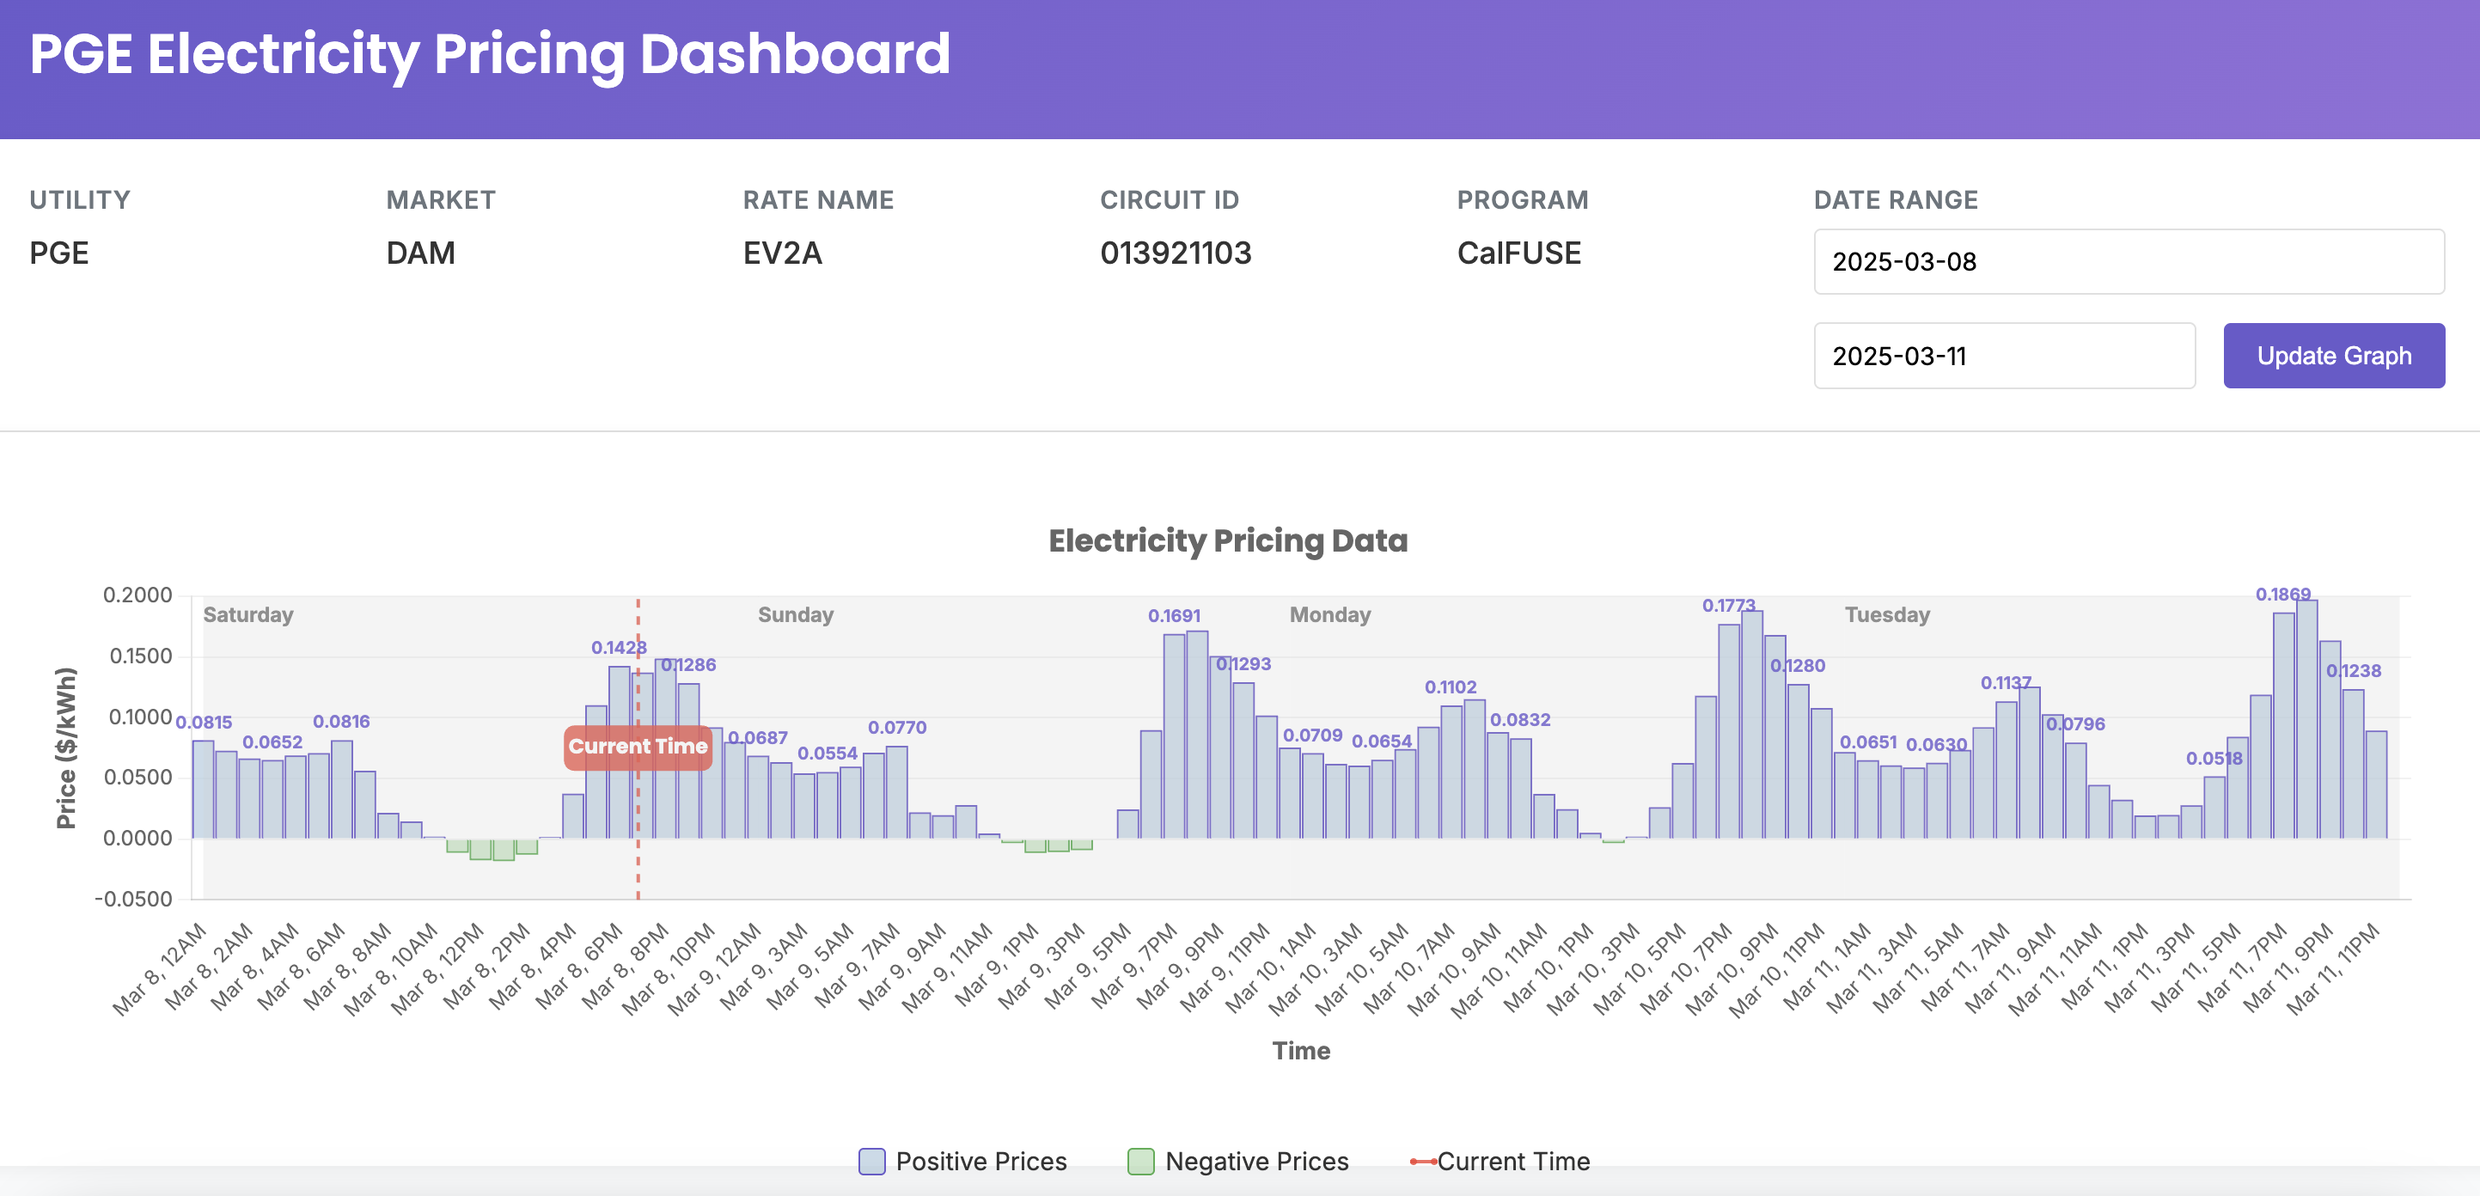
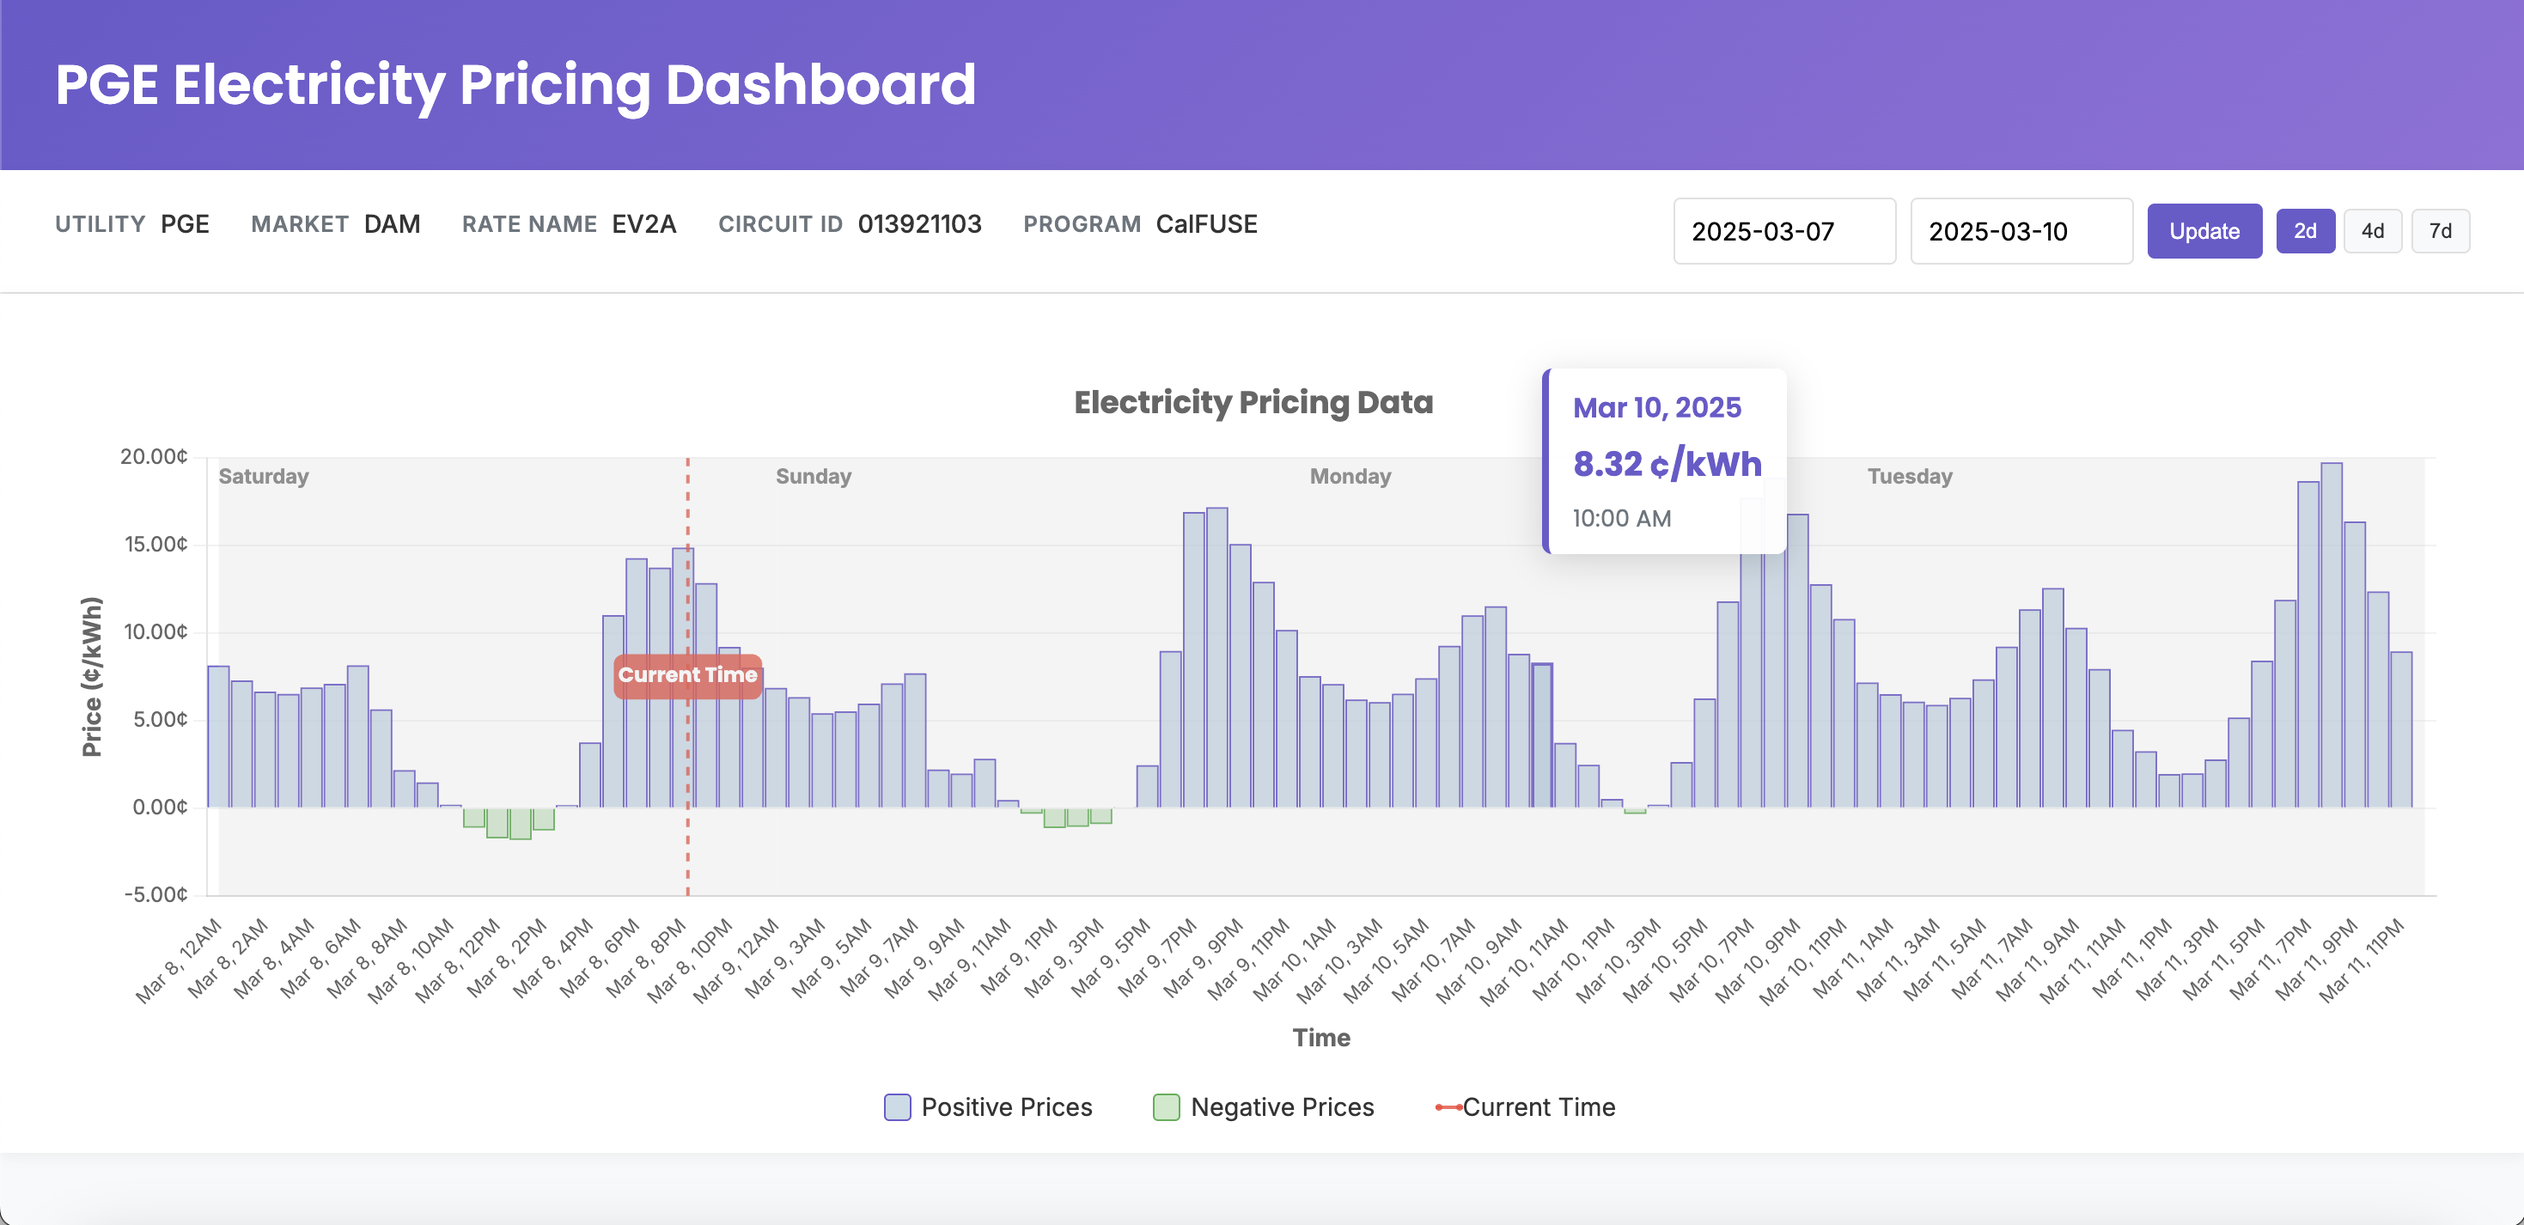
ui improvements
- larger graph
- presets 2d, 4d, 7d
- cents not dollars

diff --git a/index.html b/index.html
@@ -76,57 +76,83 @@
             display: flex;
             flex-wrap: wrap;
             background-color: white;
-            padding: 1.5rem 2rem;
+            padding: 1rem 2rem;
             border-bottom: 1px solid var(--border-color);
             box-shadow: 0 2px 8px rgba(0, 0, 0, 0.05);
         }
 
         .metadata-item {
-            flex: 1;
-            min-width: 200px;
-            margin-bottom: 1rem;
-            padding-right: 1.5rem;
+            display: flex;
+            align-items: center;
+            margin-right: 1.5rem;
+            margin-bottom: 0.5rem;
         }
 
         .metadata-label {
             font-weight: 600;
             color: var(--light-text);
-            font-size: 0.9rem;
+            font-size: 0.8rem;
             text-transform: uppercase;
             letter-spacing: 0.5px;
-            margin-bottom: 0.3rem;
+            margin-right: 0.5rem;
         }
 
         .metadata-value {
-            font-size: 1.1rem;
+            font-size: 0.9rem;
             font-weight: 500;
         }
 
         .date-picker-container {
-            flex: 2;
-            min-width: 300px;
             display: flex;
-            flex-direction: column;
+            align-items: center;
+            margin-left: auto;
         }
 
         .date-picker-row {
             display: flex;
-            flex-wrap: wrap;
-            gap: 1rem;
             align-items: center;
+            gap: 0.5rem;
+        }
+
+        .preset-buttons {
+            display: flex;
+            gap: 0.3rem;
+            margin-left: 0.5rem;
+        }
+
+        .preset-button {
+            background-color: var(--background-color);
+            border: 1px solid var(--border-color);
+            color: var(--text-color);
+            padding: 0.3rem 0.6rem;
+            border-radius: 4px;
+            font-size: 0.75rem;
+            cursor: pointer;
+            transition: all 0.2s;
+        }
+
+        .preset-button:hover {
+            background-color: var(--primary-color);
+            color: white;
+            border-color: var(--primary-color);
+        }
+
+        .preset-button.active {
+            background-color: var(--primary-color);
+            color: white;
+            border-color: var(--primary-color);
         }
 
         .date-picker-wrapper {
-            flex: 1;
-            min-width: 200px;
+            width: 130px;
         }
 
         .date-input {
             width: 100%;
-            padding: 0.6rem;
+            padding: 0.4rem;
             border: 1px solid var(--border-color);
             border-radius: 4px;
-            font-size: 0.9rem;
+            font-size: 0.8rem;
             font-family: 'Inter', sans-serif;
         }
 
@@ -134,13 +160,13 @@
             background-color: var(--primary-color);
             color: white;
             border: none;
-            padding: 0.6rem 1.2rem;
+            padding: 0.4rem 0.8rem;
             border-radius: 4px;
             font-weight: 500;
             cursor: pointer;
             transition: background-color 0.2s;
-            font-size: 0.9rem;
-            height: 38px;
+            font-size: 0.8rem;
+            height: 32px;
         }
 
         .update-button:hover {
@@ -154,8 +180,8 @@
             box-shadow: 0 2px 8px rgba(0, 0, 0, 0.05);
             margin: 0;
             width: 100%;
-            height: calc(100vh - 300px);
-            min-height: 400px;
+            height: calc(100vh - 250px);
+            min-height: 500px;
             position: relative;
         }
 
@@ -258,6 +284,12 @@
             margin-top: 10px;
             flex-wrap: wrap;
             gap: 20px;
+            position: absolute;
+            bottom: 10px;
+            left: 0;
+            right: 0;
+            background-color: rgba(255, 255, 255, 0.9);
+            padding: 5px 0;
         }
 
         .legend-item {
@@ -365,7 +397,6 @@
                 <div class="metadata-value">CalFUSE</div>
             </div>
             <div class="date-picker-container">
-                <div class="metadata-label">Date Range</div>
                 <div class="date-picker-row">
                     <div class="date-picker-wrapper">
                         <input type="text" id="startDate" class="date-input" placeholder="Start Date">
@@ -373,7 +404,12 @@
                     <div class="date-picker-wrapper">
                         <input type="text" id="endDate" class="date-input" placeholder="End Date">
                     </div>
-                    <button id="updateDates" class="update-button">Update Graph</button>
+                    <button id="updateDates" class="update-button">Update</button>
+                </div>
+                <div class="preset-buttons">
+                    <button id="preset2days" class="preset-button active">2d</button>
+                    <button id="preset4days" class="preset-button">4d</button>
+                    <button id="preset7days" class="preset-button">7d</button>
                 </div>
             </div>
         </div>
@@ -404,21 +440,73 @@
     </div>
 
     <script>
-        // Initialize date pickers
-        const startDatePicker = flatpickr("#startDate", {
-            dateFormat: "Y-m-d",
-            defaultDate: "2025-03-07"
-        });
+        // Declare variables in global scope
+        let startDatePicker, endDatePicker;
+        let yesterday, twoDaysFromNow, fourDaysFromNow, sevenDaysFromNow;
         
-        const endDatePicker = flatpickr("#endDate", {
-            dateFormat: "Y-m-d",
-            defaultDate: "2025-03-10",
-            minDate: "2025-03-07"
-        });
+        // Wait for DOM to be fully loaded
+        document.addEventListener('DOMContentLoaded', function() {
+            // Calculate default dates
+            const now = new Date();
+            yesterday = new Date(now);
+            yesterday.setDate(now.getDate() - 1);
+            twoDaysFromNow = new Date(now);
+            twoDaysFromNow.setDate(now.getDate() + 2);
+            fourDaysFromNow = new Date(now);
+            fourDaysFromNow.setDate(now.getDate() + 4);
+            sevenDaysFromNow = new Date(now);
+            sevenDaysFromNow.setDate(now.getDate() + 7);
+
+            // Initialize date pickers
+            startDatePicker = flatpickr("#startDate", {
+                dateFormat: "Y-m-d",
+                defaultDate: yesterday
+            });
+            
+            endDatePicker = flatpickr("#endDate", {
+                dateFormat: "Y-m-d",
+                defaultDate: twoDaysFromNow,
+                minDate: yesterday
+            });
         
-        // Update end date min date when start date changes
-        startDatePicker.config.onChange.push(function(selectedDates, dateStr) {
-            endDatePicker.set("minDate", dateStr);
+            // Update end date min date when start date changes
+            startDatePicker.config.onChange.push(function(selectedDates, dateStr) {
+                endDatePicker.set("minDate", dateStr);
+            });
+
+            // Preset date range buttons
+            document.getElementById('preset2days').addEventListener('click', function() {
+                setActiveDatePreset(this);
+                startDatePicker.setDate(yesterday);
+                endDatePicker.setDate(twoDaysFromNow);
+                fetchDataAndCreateChart();
+            });
+
+            document.getElementById('preset4days').addEventListener('click', function() {
+                setActiveDatePreset(this);
+                startDatePicker.setDate(yesterday);
+                endDatePicker.setDate(fourDaysFromNow);
+                fetchDataAndCreateChart();
+            });
+
+            document.getElementById('preset7days').addEventListener('click', function() {
+                setActiveDatePreset(this);
+                startDatePicker.setDate(yesterday);
+                endDatePicker.setDate(sevenDaysFromNow);
+                fetchDataAndCreateChart();
+            });
+
+            function setActiveDatePreset(button) {
+                // Remove active class from all preset buttons
+                document.querySelectorAll('.preset-button').forEach(btn => {
+                    btn.classList.remove('active');
+                });
+                // Add active class to clicked button
+                button.classList.add('active');
+            }
+
+            // Initial chart creation
+            fetchDataAndCreateChart();
         });
 
         // Chart.js setup and data fetching
@@ -435,32 +523,6 @@
 
         // Register Chart.js plugins
         Chart.register(ChartDataLabels);
-
-        // Sample data for fallback if API fails
-        const sampleData = {
-            timestamps: [
-                "2025-03-07T00:00:00Z", "2025-03-07T01:00:00Z", "2025-03-07T02:00:00Z", "2025-03-07T03:00:00Z",
-                "2025-03-07T04:00:00Z", "2025-03-07T05:00:00Z", "2025-03-07T06:00:00Z", "2025-03-07T07:00:00Z",
-                "2025-03-07T08:00:00Z", "2025-03-07T09:00:00Z", "2025-03-07T10:00:00Z", "2025-03-07T11:00:00Z",
-                "2025-03-07T12:00:00Z", "2025-03-07T13:00:00Z", "2025-03-07T14:00:00Z", "2025-03-07T15:00:00Z",
-                "2025-03-07T16:00:00Z", "2025-03-07T17:00:00Z", "2025-03-07T18:00:00Z", "2025-03-07T19:00:00Z",
-                "2025-03-07T20:00:00Z", "2025-03-07T21:00:00Z", "2025-03-07T22:00:00Z", "2025-03-07T23:00:00Z",
-                "2025-03-08T00:00:00Z", "2025-03-08T01:00:00Z", "2025-03-08T02:00:00Z", "2025-03-08T03:00:00Z",
-                "2025-03-08T04:00:00Z", "2025-03-08T05:00:00Z", "2025-03-08T06:00:00Z", "2025-03-08T07:00:00Z",
-                "2025-03-08T08:00:00Z", "2025-03-08T09:00:00Z", "2025-03-08T10:00:00Z", "2025-03-08T11:00:00Z",
-                "2025-03-08T12:00:00Z", "2025-03-08T13:00:00Z", "2025-03-08T14:00:00Z", "2025-03-08T15:00:00Z",
-                "2025-03-08T16:00:00Z", "2025-03-08T17:00:00Z", "2025-03-08T18:00:00Z", "2025-03-08T19:00:00Z",
-                "2025-03-08T20:00:00Z", "2025-03-08T21:00:00Z", "2025-03-08T22:00:00Z", "2025-03-08T23:00:00Z"
-            ],
-            prices: [
-                0.0452, 0.0389, 0.0321, 0.0298, 0.0312, 0.0356, 0.0412, 0.0489,
-                0.0521, 0.0498, 0.0476, 0.0465, 0.0432, 0.0421, 0.0445, 0.0478,
-                0.0512, 0.0567, 0.0612, 0.0645, 0.0621, 0.0578, 0.0512, 0.0467,
-                0.0432, 0.0387, 0.0321, 0.0298, -0.0112, -0.0156, 0.0312, 0.0389,
-                0.0432, 0.0467, 0.0489, 0.0512, 0.0498, 0.0476, 0.0465, 0.0489,
-                0.0521, 0.0567, 0.0612, 0.0645, 0.0621, 0.0578, 0.0512, 0.0467
-            ]
-        };
 
         // Custom tooltip handler
         const externalTooltipHandler = (context) => {
@@ -484,7 +546,7 @@
                 
                 tooltipEl.innerHTML = `
                     <div class="tooltip-title">${titleLines}</div>
-                    <div class="tooltip-value ${valueClass}">${dataPoint.toFixed(4)} $/kWh</div>
+                    <div class="tooltip-value ${valueClass}">${(dataPoint * 100).toFixed(2)} ¢/kWh</div>
                     <div class="tooltip-time">${formattedTime}</div>
                 `;
             }
@@ -573,7 +635,7 @@
                 data: {
                     labels: timestamps,
                     datasets: [{
-                        label: 'Price ($/kWh)',
+                        label: 'Price (¢/kWh)',
                         data: prices,
                         backgroundColor: function(context) {
                             const index = context.dataIndex;
@@ -618,8 +680,9 @@
                             time: {
                                 unit: 'hour',
                                 displayFormats: {
-                                    hour: 'MMM D, hA' // e.g., "Mar 8, 12AM"
-                                }
+                                    hour: 'hA' // e.g., "12AM"
+                                },
+                                tooltipFormat: 'MMM D, hA'
                             },
                             title: {
                                 display: true,
@@ -636,16 +699,20 @@
                             ticks: {
                                 font: {
                                     family: "'Inter', sans-serif",
-                                    size: 12
+                                    size: 11
                                 },
                                 maxRotation: 45,
-                                minRotation: 45
+                                minRotation: 45,
+                                callback: function(value, index, values) {
+                                    const date = new Date(value);
+                                    return moment(value).format('MMM D, hA');
+                                }
                             }
                         },
                         y: {
                             title: {
                                 display: true,
-                                text: 'Price ($/kWh)',
+                                text: 'Price (¢/kWh)',
                                 font: {
                                     family: "'Inter', sans-serif",
                                     size: 14,
@@ -661,7 +728,8 @@
                                     size: 12
                                 },
                                 callback: function(value) {
-                                    return value.toFixed(4);
+                                    // Convert from dollars to cents
+                                    return (value * 100).toFixed(2) + '¢';
                                 }
                             }
                         }
@@ -713,27 +781,7 @@
                             }
                         },
                         datalabels: {
-                            display: function(context) {
-                                // Only show data labels for values that are significantly different from zero
-                                // and limit the number of labels to avoid overcrowding
-                                return Math.abs(context.dataset.data[context.dataIndex]) > 0.04 && context.dataIndex % 3 === 0;
-                            },
-                            formatter: function(value) {
-                                return value.toFixed(4);
-                            },
-                            color: function(context) {
-                                const value = context.dataset.data[context.dataIndex];
-                                return value < 0 ? 'rgba(76, 175, 80, 1)' : 'rgba(106, 90, 205, 1)';
-                            },
-                            font: {
-                                family: "'Inter', sans-serif",
-                                size: 10,
-                                weight: 'bold'
-                            },
-                            anchor: 'end',
-                            align: 'top',
-                            offset: 0,
-                            opacity: 0.8
+                            display: false // Disable data labels
                         }
                     },
                     animation: {
@@ -814,20 +862,11 @@
                 // Show error message
                 errorEl.textContent = 'Failed to load data: ' + error.message;
                 errorEl.style.display = 'block';
-                
-                // Use sample data as fallback
-                setTimeout(() => {
-                    errorEl.textContent += ' Using sample data instead.';
-                    createChart(sampleData.timestamps, sampleData.prices);
-                }, 1500);
             });
         }
 
         // Add event listener to update button
-        updateButton.addEventListener('click', fetchDataAndCreateChart);
-
-        // Initial chart creation
-        fetchDataAndCreateChart();
+        document.getElementById('updateDates').addEventListener('click', fetchDataAndCreateChart);
 
         // Handle window resize to make chart responsive
         window.addEventListener('resize', function() {
